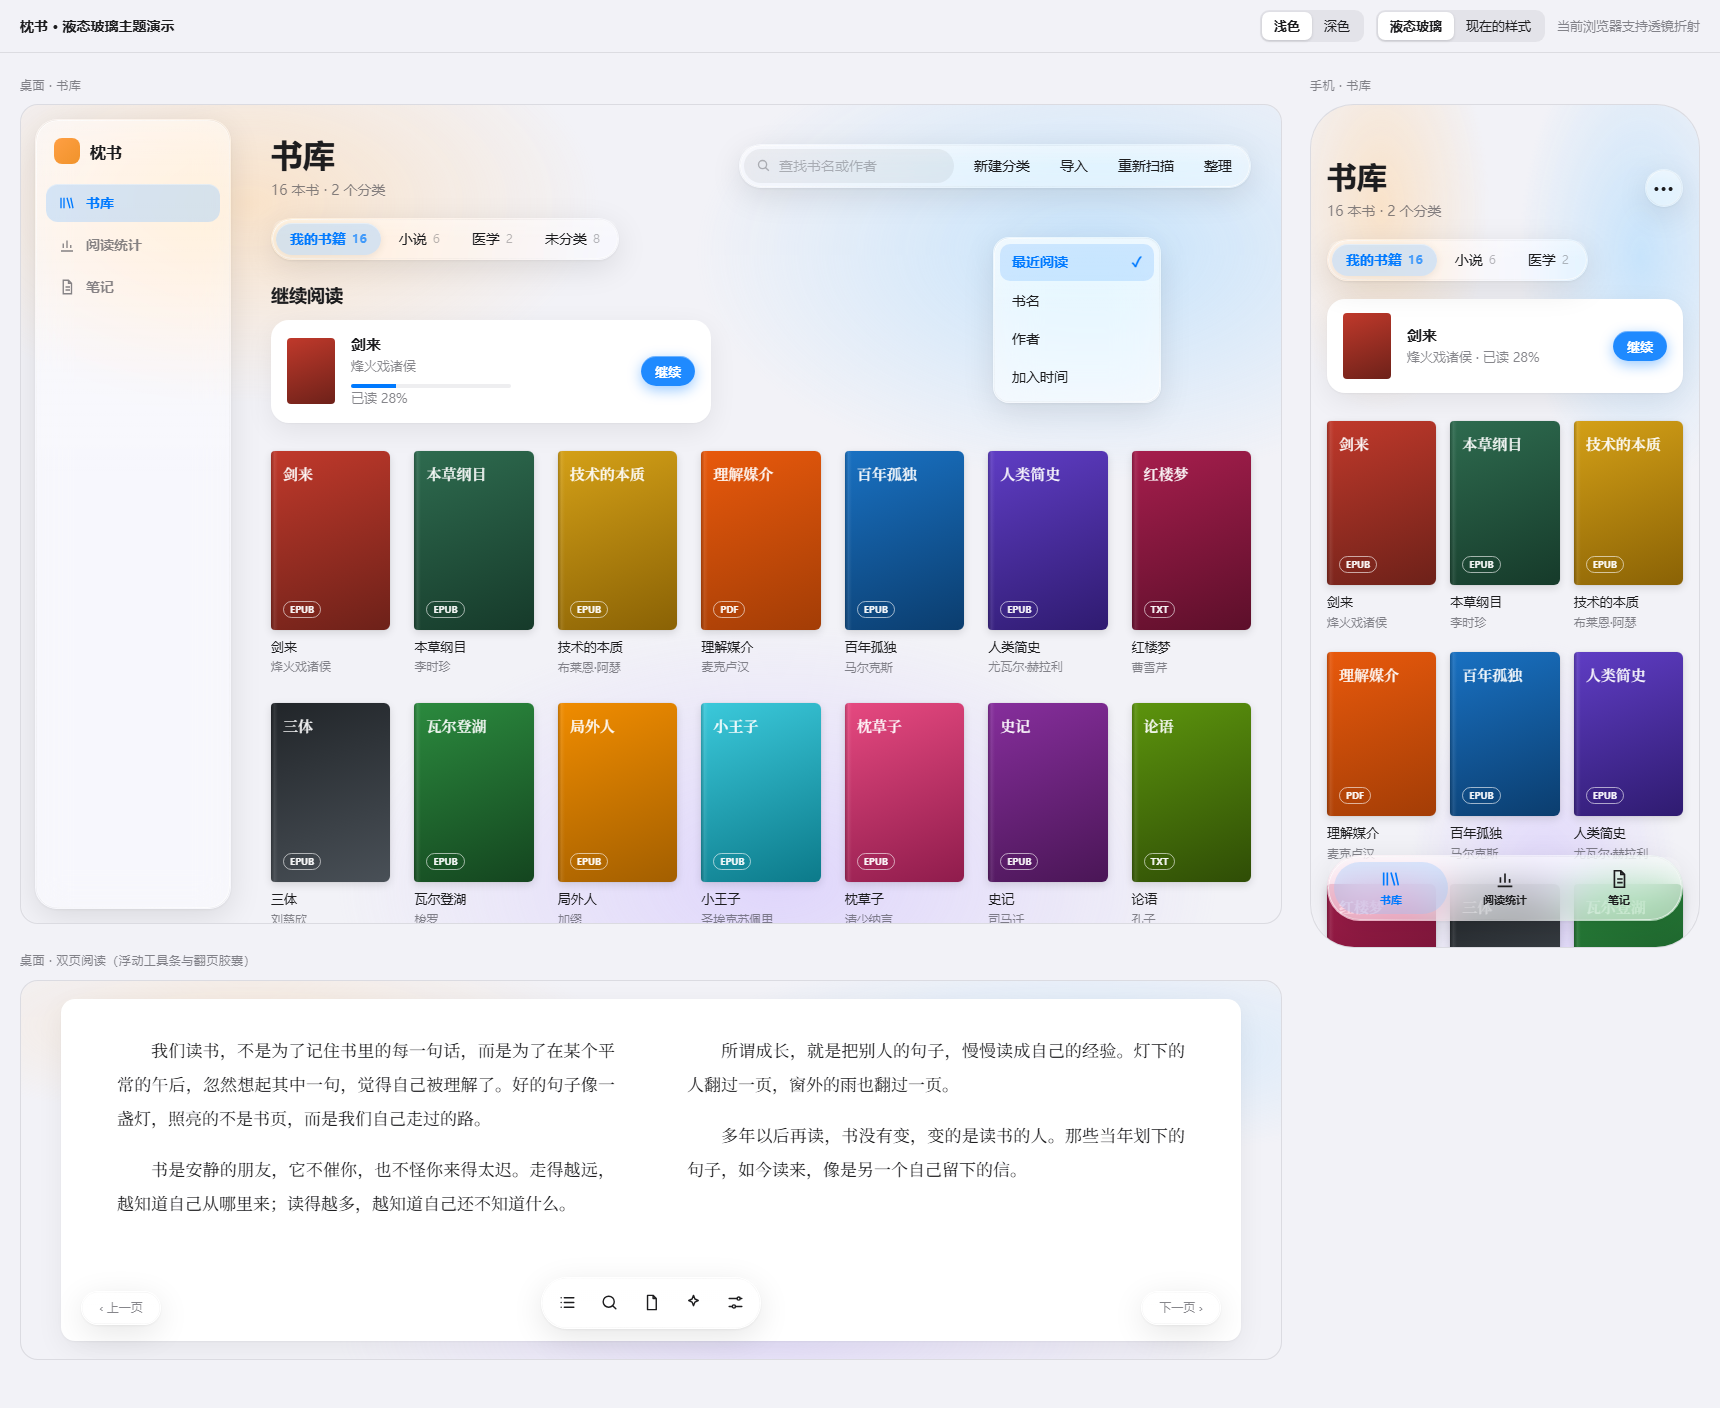
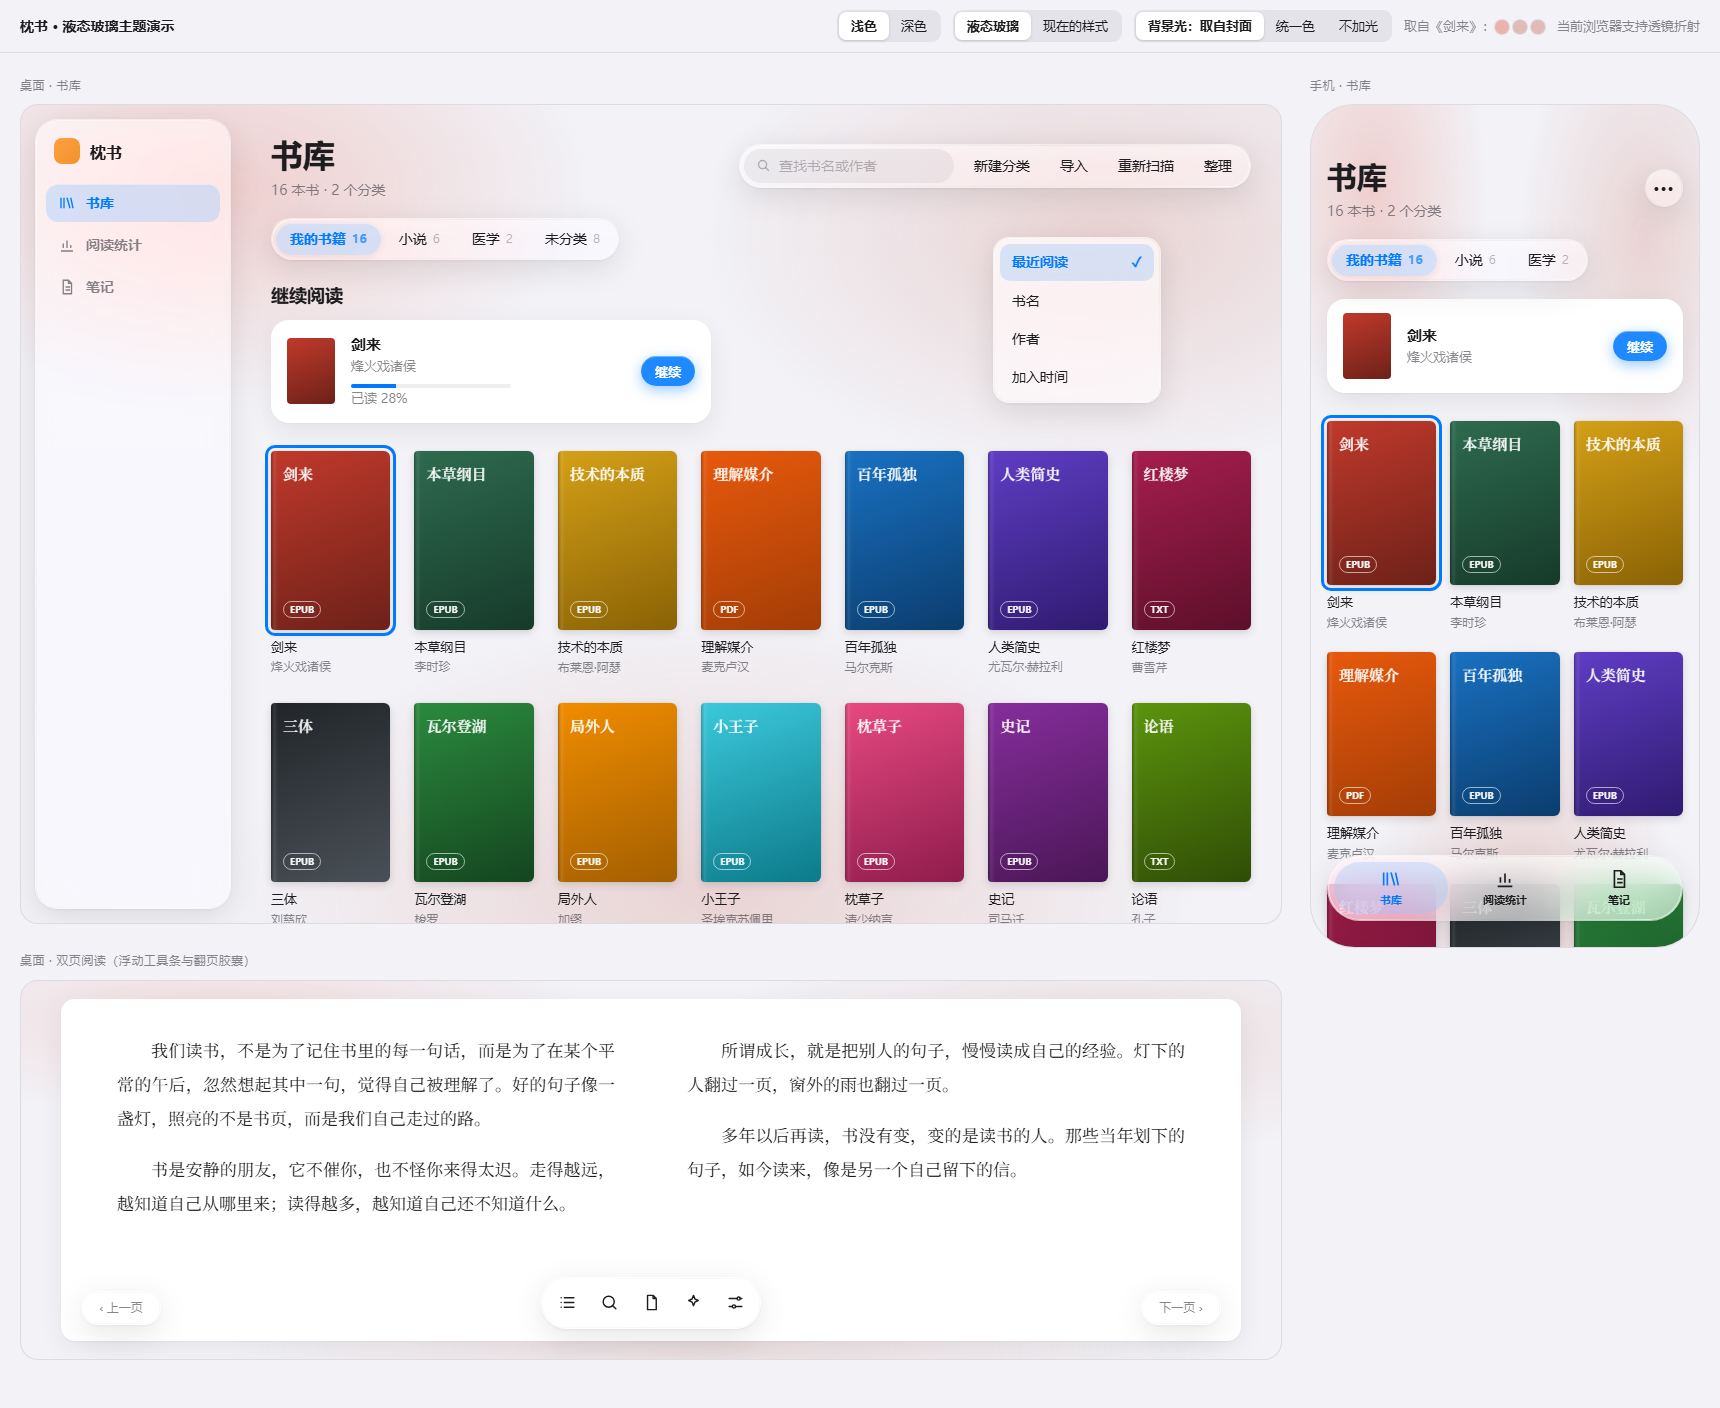
docs(demo): ambient light from the 继续阅读 cover, uniform or none; colours glide on change

diff --git a/docs/demos/liquid-glass/index.html b/docs/demos/liquid-glass/index.html
@@ -101,16 +101,25 @@ body {
 .desktop { height: 820px; }
 .phone { width: 390px; height: 844px; border-radius: 44px; }
 
-/* Ambient light: glass needs colour behind it. Taken from the covers. */
+/* Ambient light: glass needs colour behind it. The script sets the three
+   colours (from the 继续阅读 cover, one uniform tint, or none); registered
+   as <color> so a change glides instead of jumping. */
+@property --amb-1 { syntax: '<color>'; inherits: true; initial-value: transparent; }
+@property --amb-2 { syntax: '<color>'; inherits: true; initial-value: transparent; }
+@property --amb-3 { syntax: '<color>'; inherits: true; initial-value: transparent; }
 .ambient {
   position: absolute; inset: 0; z-index: -1; pointer-events: none;
   background:
-    radial-gradient(40% 35% at 18% 12%, var(--ambient-1), transparent 70%),
-    radial-gradient(45% 40% at 85% 18%, var(--ambient-2), transparent 70%),
-    radial-gradient(50% 45% at 60% 95%, var(--ambient-3), transparent 70%);
+    radial-gradient(42% 38% at 16% 10%, var(--amb-1), transparent 70%),
+    radial-gradient(46% 42% at 86% 16%, var(--amb-2), transparent 70%),
+    radial-gradient(55% 48% at 55% 96%, var(--amb-3), transparent 70%);
   opacity: 0;
-  transition: opacity .3s ease;
+  transition: opacity .3s ease, --amb-1 .8s ease, --amb-2 .8s ease, --amb-3 .8s ease;
 }
+.book { cursor: pointer; }
+.book.is-reading .cover { outline: 3px solid var(--accent); outline-offset: 3px; }
+.palette { display: inline-flex; gap: 4px; vertical-align: middle; }
+.palette i { width: 14px; height: 14px; border-radius: 50%; box-shadow: 0 0 0 1px var(--separator); }
 html[data-glass="on"] .ambient { opacity: .55; }
 html[data-glass="on"][data-theme="dark"] .ambient { opacity: .9; }
 
@@ -338,6 +347,8 @@ html:not([data-glass="on"]) .toolbar { gap: 8px; }
   <strong>枕书 · 液态玻璃主题演示</strong>
   <span class="demo-seg" data-control="theme"><button data-value="light" aria-pressed="true">浅色</button><button data-value="dark">深色</button></span>
   <span class="demo-seg" data-control="glass"><button data-value="on" aria-pressed="true">液态玻璃</button><button data-value="off">现在的样式</button></span>
+  <span class="demo-seg" data-control="ambient"><button data-value="cover" aria-pressed="true">背景光：取自封面</button><button data-value="uniform">统一色</button><button data-value="none">不加光</button></span>
+  <span class="demo-note" id="paletteNote"></span>
   <span class="demo-note" id="lensNote"></span>
 </div>
 
@@ -365,8 +376,8 @@ html:not([data-glass="on"]) .toolbar { gap: 8px; }
         </div>
         <h2>继续阅读</h2>
         <div class="continue">
-          <div class="cover-sm" style="background:linear-gradient(160deg,#c0392b,#6d2119)"></div>
-          <div><b>剑来</b><span>烽火戏诸侯</span><div class="bar"><i></i></div><span>已读 28%</span></div>
+          <div class="cover-sm" data-continue-cover style="background:linear-gradient(160deg,#c0392b,#6d2119)"></div>
+          <div><b data-continue-title>剑来</b><span data-continue-author>烽火戏诸侯</span><div class="bar"><i></i></div><span>已读 28%</span></div>
           <button class="btn primary">继续</button>
         </div>
         <div class="grid" id="desktopGrid"></div>
@@ -407,8 +418,8 @@ html:not([data-glass="on"]) .toolbar { gap: 8px; }
         <div class="head"><div><h1>书库</h1><p>16 本书 · 2 个分类</p></div><div class="more glass lens">···</div></div>
         <div class="chips glass" style="margin-bottom:18px"><span class="chip is-current">我的书籍 <small>16</small></span><span class="chip">小说 <small>6</small></span><span class="chip">医学 <small>2</small></span></div>
         <div class="continue">
-          <div class="cover-sm" style="background:linear-gradient(160deg,#c0392b,#6d2119)"></div>
-          <div><b>剑来</b><span>烽火戏诸侯 · 已读 28%</span></div>
+          <div class="cover-sm" data-continue-cover style="background:linear-gradient(160deg,#c0392b,#6d2119)"></div>
+          <div><b data-continue-title>剑来</b><span data-continue-author>烽火戏诸侯</span></div>
           <button class="btn primary">继续</button>
         </div>
         <div class="grid" id="phoneGrid"></div>
@@ -446,7 +457,9 @@ function fill(id, count) {
   for (const [title, author, from, to, format] of BOOKS.slice(0, count)) {
     const book = document.createElement('div');
     book.className = 'book';
+    book.dataset.title = title;
     book.innerHTML = `<div class="cover" style="background:linear-gradient(160deg,${from},${to})">${title}<em>${format}</em></div><b>${title}</b><span>${author}</span>`;
+    book.addEventListener('click', () => setReading(title));
     grid.appendChild(book);
   }
 }
@@ -466,10 +479,115 @@ function choose(control, value) {
   document.documentElement.dataset[control] = value;
   document.querySelectorAll(`[data-control="${control}"] button`).forEach((button) => button.setAttribute('aria-pressed', String(button.dataset.value === value)));
 }
+/* ---------- Ambient light from the cover ----------
+   1. Draw the cover small (40×60) on a canvas.
+   2. Read every pixel; put similar colours in the same bucket, skipping
+      near-grey, near-white and near-black pixels.
+   3. Keep the two or three biggest buckets with clearly different hues.
+   4. Fit them to the theme: pale for light, deep for dark.
+   5. Set --amb-1/2/3; CSS glides from the old colours to the new.
+   In the app step 1 draws the real cover image; here the covers are CSS
+   gradients, so the same gradient is painted onto the canvas. */
+function coverPixels(book) {
+  const canvas = document.createElement('canvas');
+  canvas.width = 40;
+  canvas.height = 60;
+  const ctx = canvas.getContext('2d', { willReadFrequently: true });
+  const [, , from, to] = book;
+  const angle = (160 - 90) * Math.PI / 180;
+  const gradient = ctx.createLinearGradient(20 - Math.cos(angle) * 36, 30 - Math.sin(angle) * 36, 20 + Math.cos(angle) * 36, 30 + Math.sin(angle) * 36);
+  gradient.addColorStop(0, from);
+  gradient.addColorStop(1, to);
+  ctx.fillStyle = gradient;
+  ctx.fillRect(0, 0, 40, 60);
+  // A title and a light badge, as on a real cover: the filter must ignore them.
+  ctx.fillStyle = '#ffffff';
+  ctx.fillRect(4, 6, 24, 5);
+  ctx.fillRect(4, 52, 10, 3);
+  return ctx.getImageData(0, 0, 40, 60).data;
+}
+
+function rgbToHsl(r, g, b) {
+  r /= 255; g /= 255; b /= 255;
+  const max = Math.max(r, g, b);
+  const min = Math.min(r, g, b);
+  const l = (max + min) / 2;
+  if (max === min) return [0, 0, l];
+  const d = max - min;
+  const s = l > .5 ? d / (2 - max - min) : d / (max + min);
+  const h = max === r ? (g - b) / d + (g < b ? 6 : 0) : max === g ? (b - r) / d + 2 : (r - g) / d + 4;
+  return [h * 60, s, l];
+}
+
+function dominantColours(pixels) {
+  const buckets = new Map();
+  for (let index = 0; index < pixels.length; index += 4) {
+    const [r, g, b] = [pixels[index], pixels[index + 1], pixels[index + 2]];
+    const [h, sat, l] = rgbToHsl(r, g, b);
+    if (sat < .18 || l < .08 || l > .92) continue;   // grey, black, white: text and badges
+    const key = `${r >> 4},${g >> 4},${b >> 4}`;
+    const bucket = buckets.get(key) || { count: 0, r: 0, g: 0, b: 0, h };
+    bucket.count += 1; bucket.r += r; bucket.g += g; bucket.b += b;
+    buckets.set(key, bucket);
+  }
+  const ranked = [...buckets.values()].sort((left, right) => right.count - left.count)
+    .map((bucket) => rgbToHsl(bucket.r / bucket.count, bucket.g / bucket.count, bucket.b / bucket.count));
+  const picked = [];
+  for (const colour of ranked) {
+    // Keep colours that differ: different hue, or clearly different lightness.
+    if (picked.every((other) => Math.min(Math.abs(other[0] - colour[0]), 360 - Math.abs(other[0] - colour[0])) > 12 || Math.abs(other[2] - colour[2]) > .14)) picked.push(colour);
+    if (picked.length === 3) break;
+  }
+  // Too few distinct colours: fill in with the main hue, softer — never an
+  // invented hue the cover does not have.
+  while (picked.length < 3 && picked.length) picked.push([picked[0][0], picked[0][1] * .7, picked[0][2]]);
+  return picked;
+}
+
+function fitToTheme([h, sat, l], theme) {
+  return theme === 'dark'
+    ? `hsl(${h.toFixed(0)} ${(Math.min(sat, .6) * 100).toFixed(0)}% ${(Math.min(Math.max(l, .2), .3) * 100).toFixed(0)}%)`
+    : `hsl(${h.toFixed(0)} ${(Math.min(sat, .7) * 100).toFixed(0)}% ${(Math.max(l, .8) * 100).toFixed(0)}%)`;
+}
+
+let reading = BOOKS[0];
+const paletteCache = new Map();
+function applyAmbient() {
+  const root = document.documentElement;
+  const theme = root.dataset.theme;
+  const mode = root.dataset.ambient;
+  let colours;
+  if (mode === 'none') colours = ['transparent', 'transparent', 'transparent'];
+  else if (mode === 'uniform') colours = Array(3).fill(theme === 'dark' ? 'hsl(215 30% 22%)' : 'hsl(35 45% 86%)');
+  else {
+    if (!paletteCache.has(reading[0])) paletteCache.set(reading[0], dominantColours(coverPixels(reading)));
+    colours = paletteCache.get(reading[0]).map((colour) => fitToTheme(colour, theme));
+  }
+  colours.forEach((colour, index) => root.style.setProperty(`--amb-${index + 1}`, colour));
+  document.getElementById('paletteNote').innerHTML = mode === 'cover'
+    ? `取自《${reading[0]}》：<span class="palette">${colours.map((colour) => `<i style="background:${colour}"></i>`).join('')}</span>`
+    : '';
+}
+
+function setReading(title) {
+  reading = BOOKS.find((book) => book[0] === title) || BOOKS[0];
+  const [name, author, from, to] = reading;
+  document.querySelectorAll('[data-continue-cover]').forEach((cover) => { cover.style.background = `linear-gradient(160deg,${from},${to})`; });
+  document.querySelectorAll('[data-continue-title]').forEach((element) => { element.textContent = name; });
+  document.querySelectorAll('[data-continue-author]').forEach((element) => { element.textContent = author; });
+  document.querySelectorAll('.book').forEach((book) => book.classList.toggle('is-reading', book.dataset.title === name));
+  applyAmbient();
+}
+
 choose('theme', params.get('theme') || 'light');
 choose('glass', params.get('glass') || 'on');
+choose('ambient', params.get('ambient') || 'cover');
+setReading(params.get('book') || BOOKS[0][0]);
 document.querySelectorAll('[data-control] button').forEach((button) => {
-  button.addEventListener('click', () => choose(button.parentElement.dataset.control, button.dataset.value));
+  button.addEventListener('click', () => {
+    choose(button.parentElement.dataset.control, button.dataset.value);
+    applyAmbient();
+  });
 });
 </script>
 </body>
